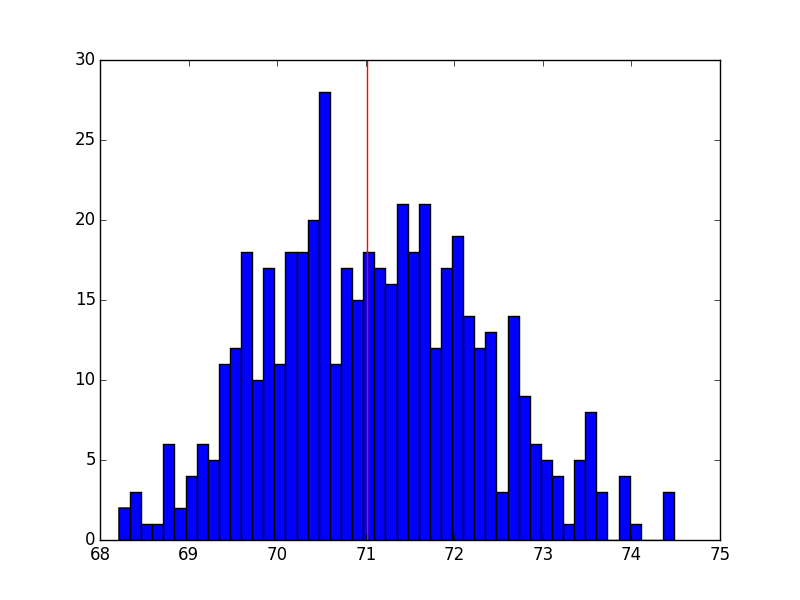
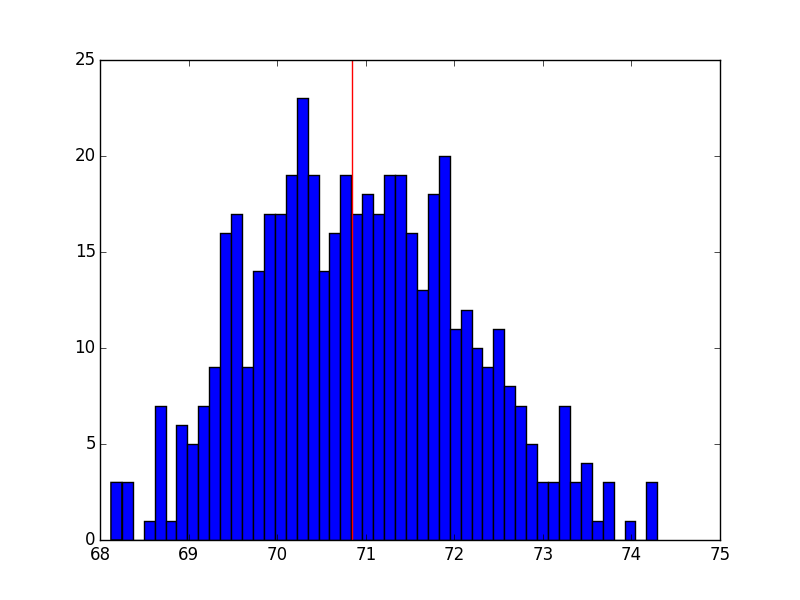
se agrega caso v/h = d y se saca promedio de ambas soluciones

diff --git a/p2.py b/p2.py
@@ -8,41 +8,61 @@ file_path = os.path.join('data', 'SNIa.dat')
 distancias = np.loadtxt(fname=file_path, usecols=(1,))
 velocidades = np.loadtxt(fname=file_path, usecols=(2,))
 
-# H0 = suma(vi*di) / suma(di)
+# 1 / H0_1 = suma(vi*di) / suma(di)
 numerador = 0
 denominador = 0
 for i in range(len(distancias)):
     numerador += velocidades[i] * distancias[i]
     denominador += distancias[i] * distancias[i]
-H0 = (numerador / denominador)**-1
-print H0
+H0_1 = (numerador / denominador)**-1
+print H0_1
+
+# 1 / H0_2 = suma(di^2) / suma(vi/di)
+numerador_2 = 0
+denominador_2 = 0
+for i in range(len(distancias)):
+    numerador_2 += velocidades[i] * velocidades[i]
+    denominador_2 += velocidades[i] * distancias[i]
+H0_2 = (numerador_2 / denominador_2)**-1
+print H0_2
 
 # buscando intervalo de confianza al 95
 # simulacion bootstrap
 np.random.seed(1234)
 N = len(distancias)
 Nboot = 500
-values = np.zeros(Nboot)
+values_1 = np.zeros(Nboot)
+values_2 = np.zeros(Nboot)
+values_promedio = np.zeros(Nboot)
 
 for i in range(Nboot):
     s = np.random.randint(low=0, high=N, size=N)
-    num = 0
-    den = 0
+    num_1 = 0
+    den_1 = 0
+    num_2 = 0
+    den_2 = 0
     for j in s:
-        num += velocidades[j] * distancias[j]
-        den += distancias[j] * distancias[j]
-    values[i] = np.mean((num / den)**-1)
+        num_1 += velocidades[j] * distancias[j]
+        den_1 += distancias[j] * distancias[j]
+        num_2 += velocidades[j] * velocidades[j]
+        den_2 += velocidades[j] * distancias[j]
+    values_1[i] = np.mean((num_1 / den_1)**-1)
+    values_2[i] = np.mean((num_2 / den_2)**-1)
+    values_promedio[i] = (values_1[i] + values_2[i]) * 0.5
 
-values_ordenados = np.sort(values)
-limite_bajo = values_ordenados[int(Nboot * 0.03)]
-limite_alto = values_ordenados[int(Nboot * 0.98)]
+values_ord = np.sort(values_promedio)
+limite_bajo = values_ord[int(Nboot * 0.03)]
+limite_alto = values_ord[int(Nboot * 0.98)]
 print "El intervalo de confianza al 95% es: [{}:{}]".format(limite_bajo, limite_alto)
 
-# plot
+
+# plot 1
 fig = plt.figure(1)
 fig.clf()
-plt.hist(values, bins=50)
-plt.axvline(H0, color='r')
+plt.hist(values_promedio, bins=50)
+plt.axvline((H0_1+H0_2)*0.5, color='r')
 plt.draw()
 plt.show()
 plt.savefig('bootstrap_p2.png')
+
+print (H0_1+H0_2)*0.5
